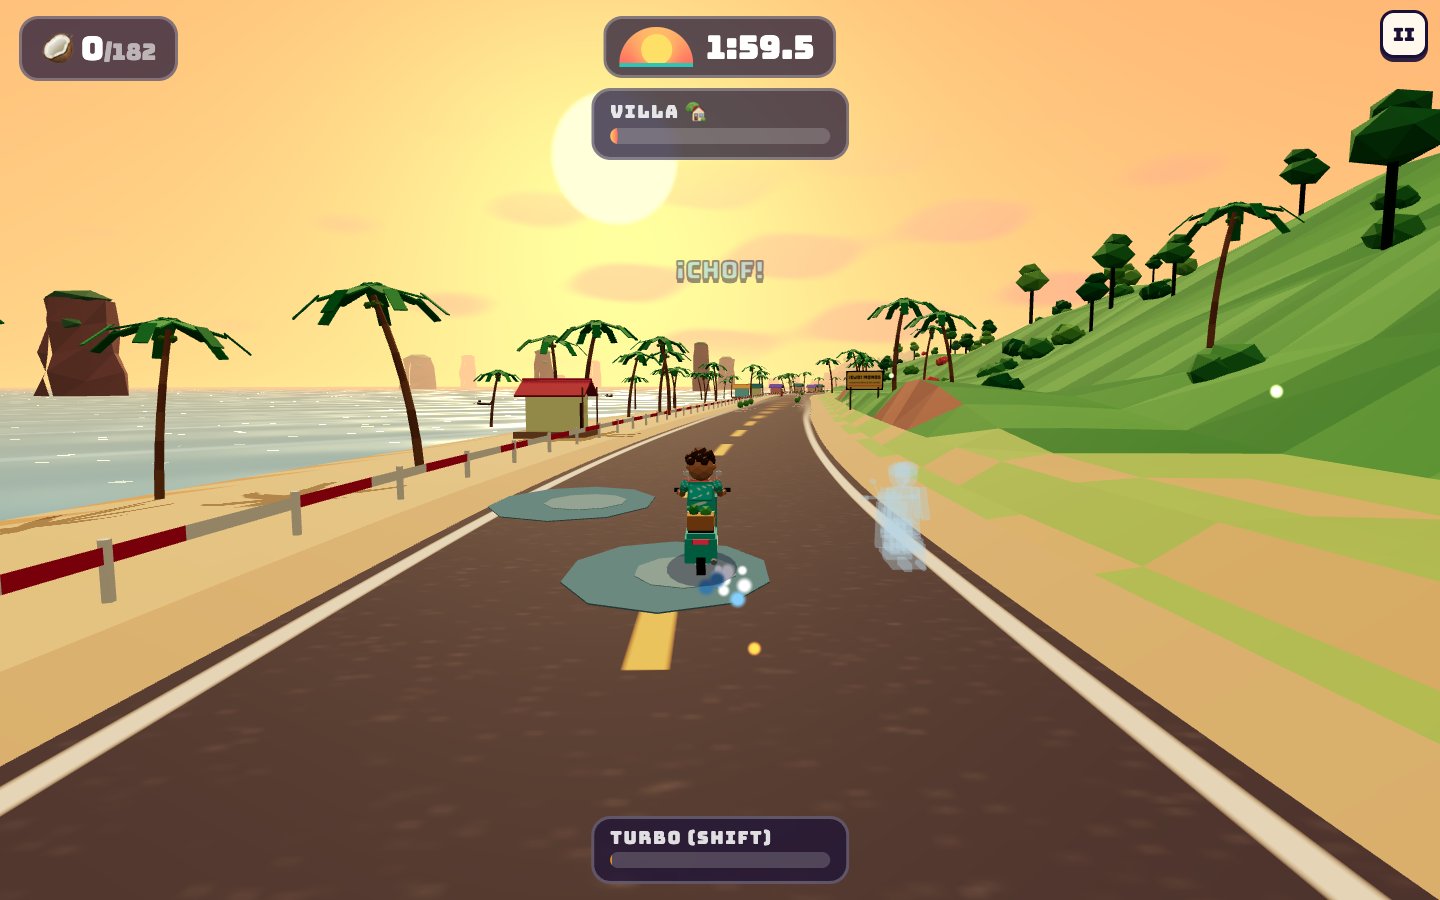
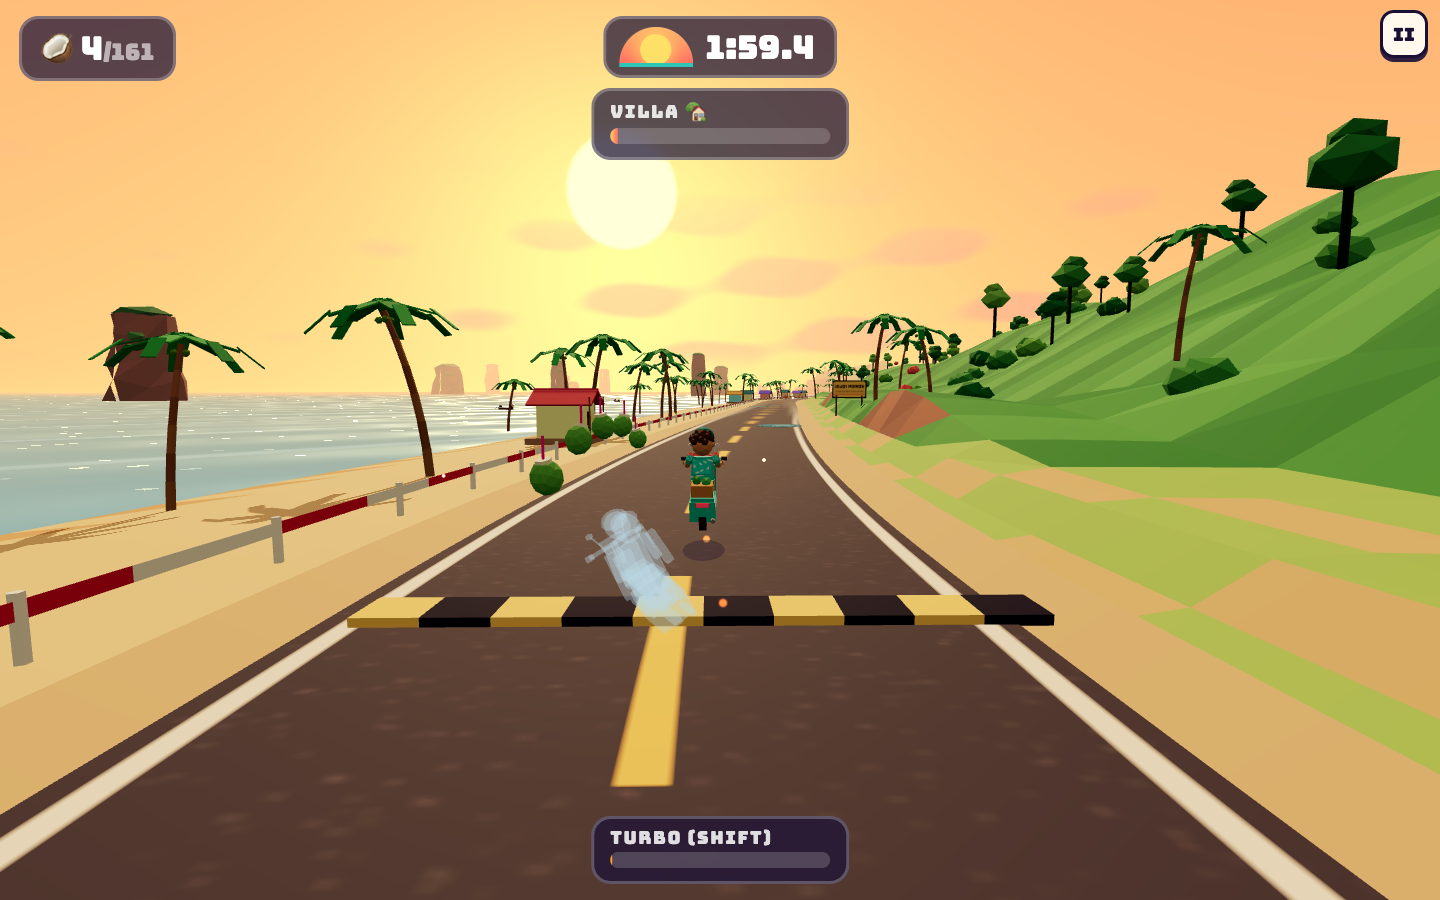
Phuket ronda 3: mercado más limpio, controles fuera en la meta, cocos a la vista desde la salida

diff --git a/src/stages/phuket/index.js b/src/stages/phuket/index.js
@@ -138,7 +138,7 @@ export default {
     const addPuddle = (s, d) => haz.push({ type: 'charco', s, d, r: rng.range(1.5, 2.3), rs: 0, rd: 0 });
     const addBump = (s) => haz.push({ type: 'baden', s, d: 0, rs: 0.5, rd: 6 });
 
-    cocoLine(S0 + 30, 0, 6);
+    cocoLine(S0 + 12, -1.5, 4, 5); cocoSlalom(S0 + 32, 4);
     let first = true;
     for (let s = S0 + 110; s < SF - 110; s += rng.range(52, 74)) {
       const u = (s - S0) / LG, zt = zoneType(u), r = rng();
@@ -347,7 +347,7 @@ export default {
       const pts = (gold ? 50 : 10) * st.mult + (bonus ? 20 : 0);
       st.score += pts;
       st.fuel = Math.min(1, st.fuel + (gold ? 0.2 : 0.07));
-      if (gold) { sfx.combo(4); capa.sum(pts, bike.position, st.mult, true); fxAdd.emit(8, pos, { colors: ['#ffd166', '#fff3b0', '#ffb703'], vel: { x: 0, y: 3, z: 0 }, velSpread: 4, life: 0.5, size: 0.4 }); }
+      if (gold) { sfx.combo(4); capa.sum(pts, bike.position, st.mult, true); }
       else if (bonus) capa.num(`¡COCO RECUPERADO! +${pts}`, pos, 'grande'); else capa.sum(pts, bike.position, st.mult);
       audio.sfx('coin-combo', { pitch: Math.pow(2, Math.min(st.combo - 1, 14) / 12), vol: 0.8 });
       sfx.coco(st.combo - 1);
@@ -386,7 +386,7 @@ export default {
       // derrape suave
       if (Math.abs(steer) > 0.7 && st.v > 18 && !air && st.slide <= 0) {
         st.driftT += dt; st.drift = damp(st.drift, Math.sign(steer) * 0.3, 4, dt);
-        if (Math.random() < 0.25) fx.emit(1, V.copy(bike.position).addScaledVector(bikeDir, -0.7).setY(bike.position.y + 0.15), { color: '#e8dcd0', vel: { x: 0, y: 1.2, z: 0 }, velSpread: 1, life: 0.6, gravity: 0.5, size: 0.5 });
+        if (Math.random() < 0.25) fx.emit(1, V.copy(bike.position).addScaledVector(bikeDir, -0.7).setY(bike.position.y + 0.15), { color: '#e8dcd0', vel: { x: 0, y: 1.2, z: 0 }, velSpread: 1, life: 0.4, gravity: 0.5, size: 0.3 });
         if (st.driftT > 0.3 && Math.floor(st.driftT * 3) !== Math.floor((st.driftT - dt) * 3)) audio.sfx('drift', { vol: 0.5 });
       } else {
         if (st.driftT > 1.0 && st.slide <= 0) { st.v += 5; st.fuel = Math.min(1, st.fuel + 0.15); grito('¡DERRAPE!', { size: 'peque', color: '#2ec4b6' }); audio.sfx('boost', { vol: 0.6 }); }
@@ -457,7 +457,8 @@ export default {
         }
       }
       // mercado nocturno
-      if (!st.mkIn && st.s > MK0 - 35) { st.mkIn = true; st.mkCrash = st.crashes; grito('¡MERCADO NOCTURNO!', { color: '#ffd166' }, 4); capa.say(0, '¡Zigzag! Los dorados valen x5.', anchor0, 2200); audio.sfx('crowd-ooh', { vol: 0.6 }); }
+      if (!st.mkTalk && st.s > MK0 - 130) { st.mkTalk = true; capa.say(0, '¡Mercado! Zigzag, y los dorados valen x5.', anchor0, 2300); }
+      if (!st.mkIn && st.s > MK0 - 35) { st.mkIn = true; st.mkCrash = st.crashes; grito('¡MERCADO NOCTURNO!', { color: '#ffd166' }, 4); audio.sfx('crowd-ooh', { vol: 0.6 }); }
       if (st.mkIn && !st.mkOut && st.s > MK1 + 4) {
         st.mkOut = true;
         if (st.crashes === st.mkCrash) { st.score += 300; grito('¡ENHEBRADO PERFECTO! +300', { color: '#2ec4b6' }, 4); audio.sfx('crowd-cheer', { vol: 0.7 }); sfx.fiesta(); st.fuel = 1; }
@@ -473,7 +474,7 @@ export default {
         if (Math.random() < 0.35) {
           F(st.s + 16, fr2);
           const p = V2.copy(fr2.p).addScaledVector(fr2.n, st.d + (Math.random() - 0.5) * 12).setY(fr2.p.y + 0.5 + Math.random() * 3.5);
-          fxAdd.emit(1, p, { color: '#fff8ec', vel: { x: -fr2.t.x * 45, y: 0, z: -fr2.t.z * 45 }, velSpread: 0, life: 0.45, size: 0.18, gravity: 0 });
+          fxAdd.emit(1, p, { color: '#fff8ec', vel: { x: -fr2.t.x * 45, y: 0, z: -fr2.t.z * 45 }, velSpread: 0, life: 0.26, size: 0.14, gravity: 0 });
         }
       }
 
@@ -484,6 +485,7 @@ export default {
     function finishRace(win) {
       if (st.done) return;
       st.done = true; st.win = win; st.phase = 'fin'; st.finT = 0; st.boosting = false;
+      inp.hideTouch();
       capa.clear();
       audio.intensity(win ? 1 : 0.2);
       if (win) {
